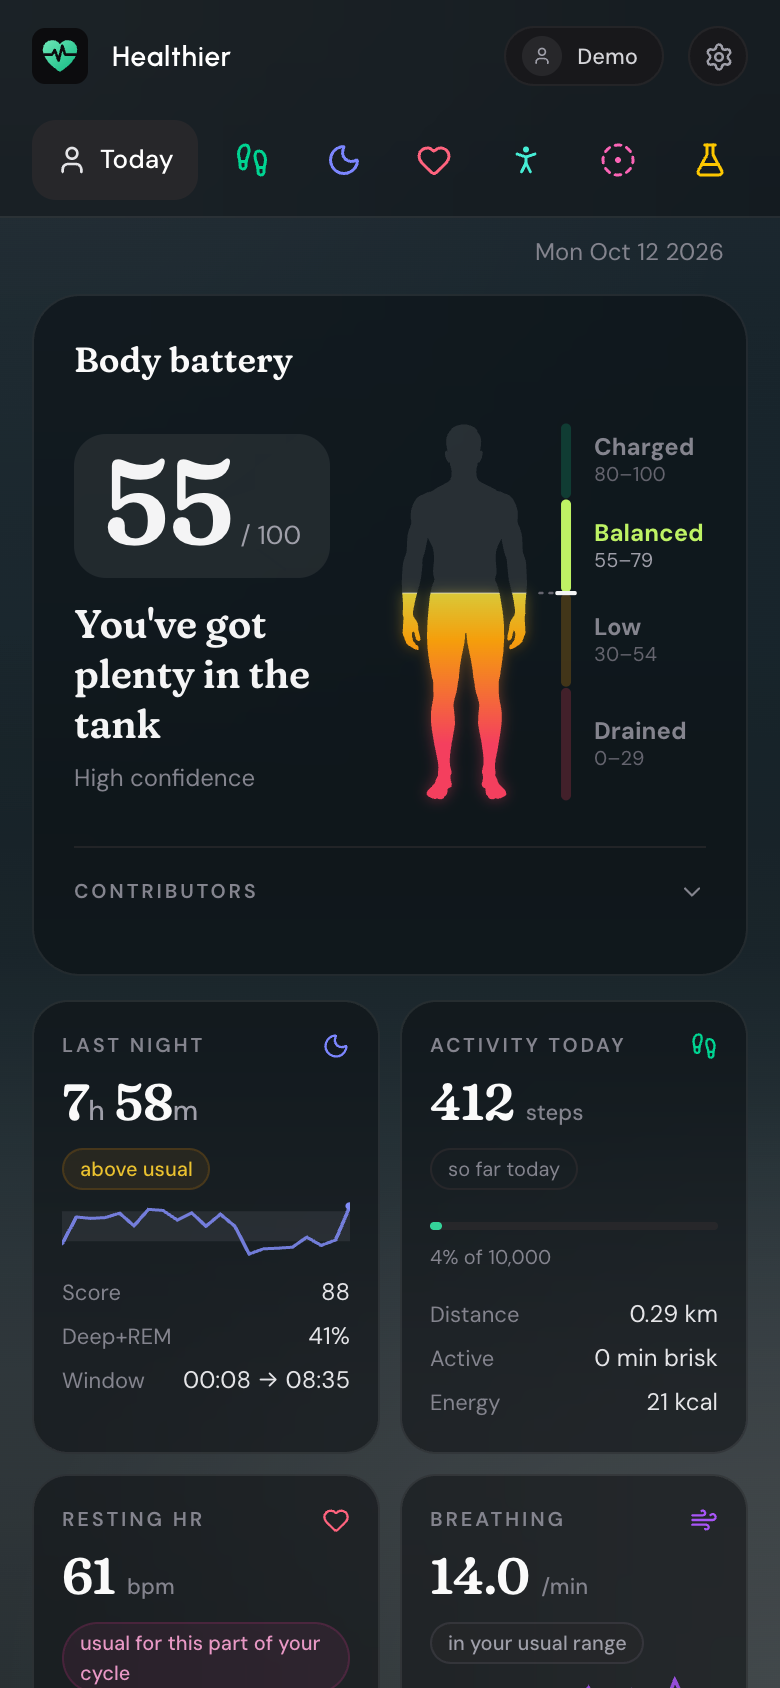
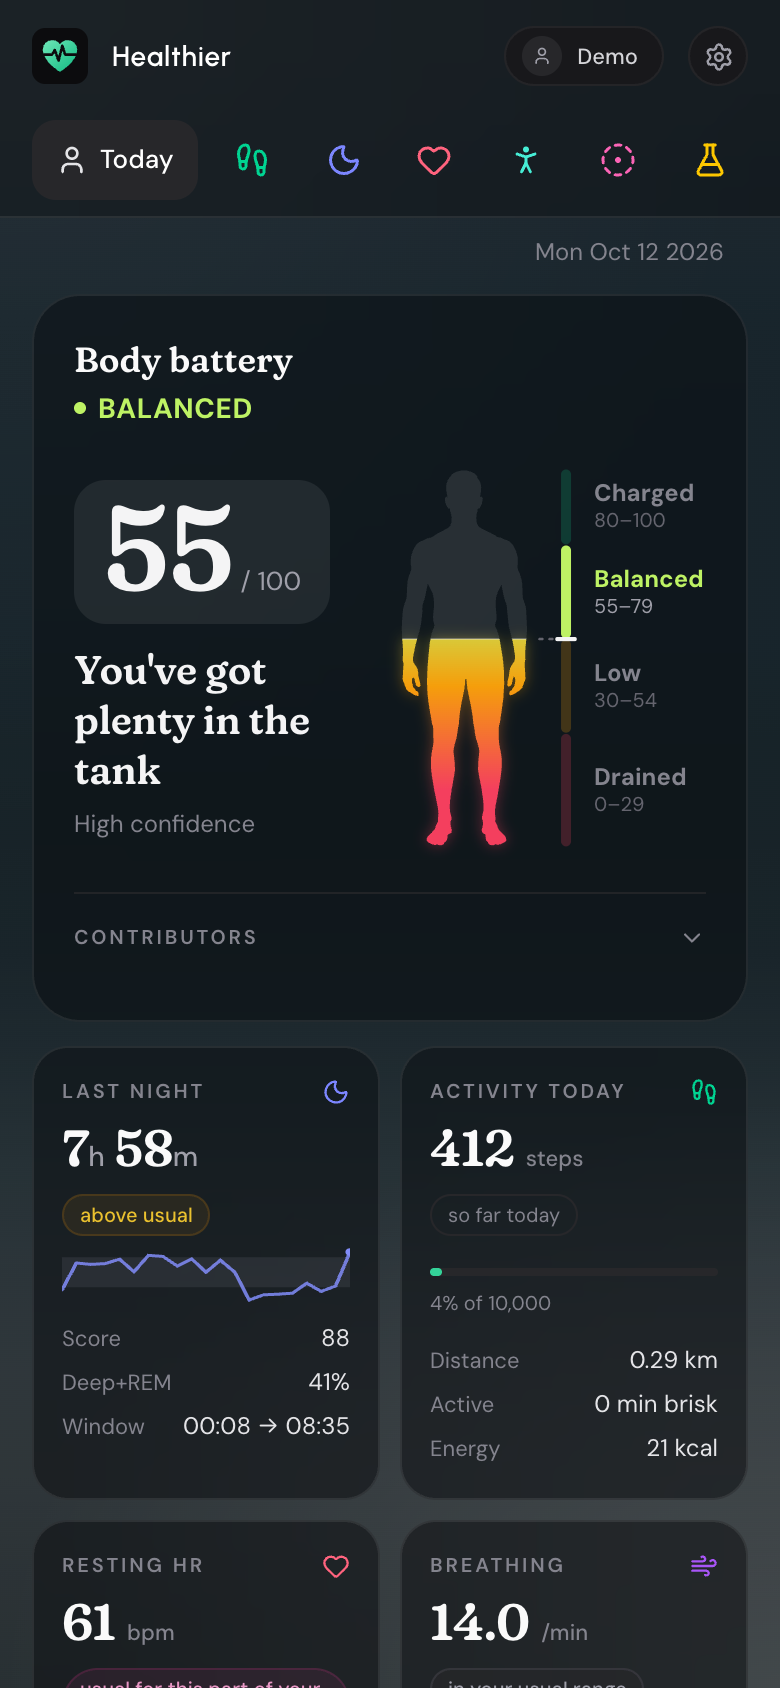
Body battery: the tier by the title again, after a dot (#121)
## What and why

#112 removed the bracketed tier, such as [BALANCED], from beside the
Body battery title. This brings it back without the brackets, after a
dot in the tier's colour: • BALANCED. It sits to the right of the title
on desktop and under it on phones. Before there's a score, it says • NO
DATA in grey.

The Today screenshots in the README are retaken to show it.

## Checklist

- [x] `npm run typecheck` and `npm test` pass
- [x] Words on screen come from `src/locales/en-US.json`, not the code
- [ ] New or changed insight cards and labs read as plain sentences,
make no medical claims, and cite their evidence
- [ ] Changes to normalisation (`registry.ts`, `normalize.ts`, sleep
parsing) bump `PIPELINE_VERSION`
- [ ] Database changes are a new migration in `server/db.ts`, not an
edit to an existing one
- [ ] New settings are documented in `.env.example` and the README
- [x] Screenshots of visible changes come from demo mode, never real
health data

diff --git a/src/views/BodyBattery.tsx b/src/views/BodyBattery.tsx
@@ -21,8 +21,8 @@ interface BodyBatteryProps {
 
 /**
  * One colour per tier: for This week's bars (fill), for the charge that fills the figure and its
- * rail (body, the same in both themes) and for the tier's name beside it (ink, the same colour in
- * dark, a shade darker in light so it reads on white). Also its name and the
+ * rail (body, the same in both themes) and for the tier's name beside it and by the title (ink, the
+ * same colour in dark, a shade darker in light so it reads on white). Also its name and the
  * figure's label for a screen reader (a whole sentence per tier, so a language can inflect the name
  * in it); the thresholds themselves live in BATTERY_TIERS.
  */
@@ -71,10 +71,27 @@ function batteryText({ score, confidence, missing, calibrating }: Pick<BodyBatte
   ].filter(Boolean).join(' · ');
   return {
     tier,
-    // The rail beside the figure names the tier, so the title only speaks up when there's no score.
-    noData: tier ? null : t('today.battery.noData'),
+    // The tier by the title, in its own colour; before there's a score, a grey note instead.
+    status: tier
+      ? { text: t(TIER_STYLE[tier.tag].name), color: TIER_STYLE[tier.tag].ink }
+      : { text: t('today.battery.noData'), color: 'var(--color-zinc-500)' },
     basis,
   };
+}
+
+/**
+ * The tier by the title, in capitals and its colour, after a dot of the same colour: • BALANCED.
+ * The dot sits halfway up the capitals (DM Sans's are 0.7em tall), not halfway up a lower-case x.
+ */
+function TierWord({ status, className = '' }: { status: { text: string; color: string }; className?: string }) {
+  return (
+    <span
+      className={`font-sans text-tag uppercase before:content-[''] before:inline-block before:size-1.5 before:mr-1.5 before:rounded-full before:bg-current before:align-[calc(0.35em_-_3px)] ${className}`}
+      style={{ color: status.color }}
+    >
+      {status.text}
+    </span>
+  );
 }
 
 const TOP = 9;
@@ -227,10 +244,10 @@ export function BodyBattery({ score, parts, confidence, label, missing, calibrat
     <div className={`bg-card border border-card-edge rounded-[28px] p-[30px_24px] md:p-[44px_48px_40px] w-full max-w-[920px] mx-auto ${className}`}>
       <div className="grid grid-cols-1 md:grid-cols-[minmax(280px,1fr)_minmax(300px,440px)] gap-3 items-start">
         <div>
-          {/* A card title, as This week's is. */}
-          <h1 className="card-title-detail flex items-baseline gap-2.5 flex-wrap text-zinc-50">
+          {/* A card title, as This week's is, with the tier to its right. */}
+          <h1 className="card-title-detail flex items-baseline gap-3 flex-wrap text-zinc-50">
             {t('today.battery.title')}
-            {z.noData && <span className="font-sans text-tag text-zinc-500">{z.noData}</span>}
+            <TierWord status={z.status} />
           </h1>
           <p className="mt-[18px] text-lead text-zinc-400 max-w-[30ch]">
             {t('today.battery.composition', { days: BASELINE_DAYS })}
@@ -279,11 +296,11 @@ export function BodyBatteryCompact({ score, parts, confidence, label, missing, c
 
   return (
     <section aria-label={t('today.battery.title')} className={`bg-card border border-card-edge rounded-[24px] p-5 flex flex-col gap-4 ${className}`}>
-      {/* A card title, as This week's is. */}
-      <h1 className="card-title-detail flex items-baseline gap-2.5 flex-wrap text-zinc-50">
-        {t('today.battery.title')}
-        {z.noData && <span className="font-sans text-tag text-zinc-500">{z.noData}</span>}
-      </h1>
+      {/* A card title, as This week's is, with the tier under it. */}
+      <div>
+        <h1 className="card-title-detail text-zinc-50">{t('today.battery.title')}</h1>
+        <TierWord status={z.status} className="block mt-0.5" />
+      </div>
 
       {/* Always side by side, never the figure under the score: the score keeps the room it needs and the figure shrinks into what's left. */}
       <div className="flex items-center gap-2.5">
